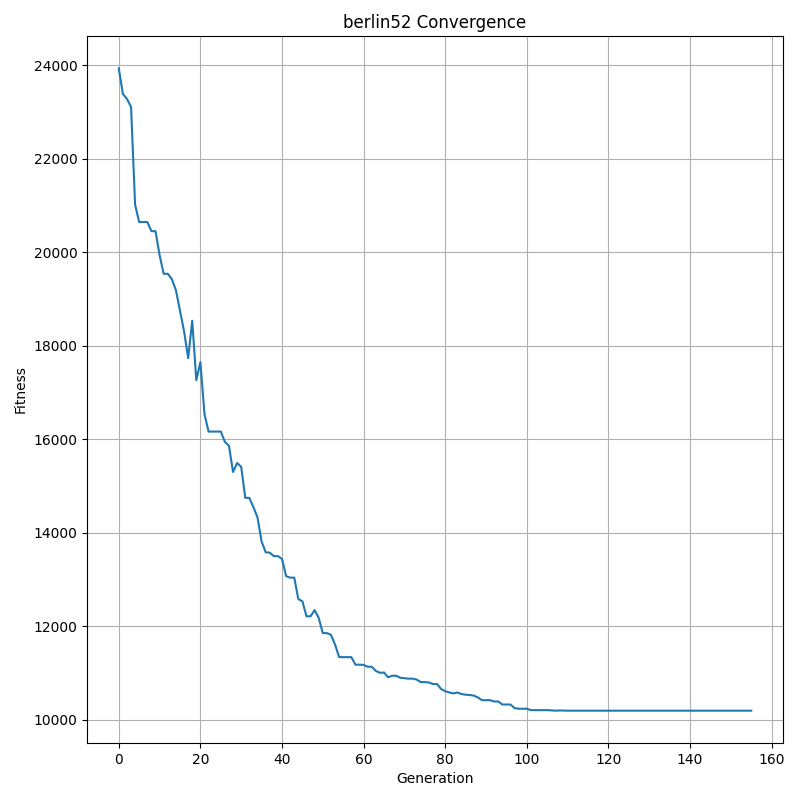
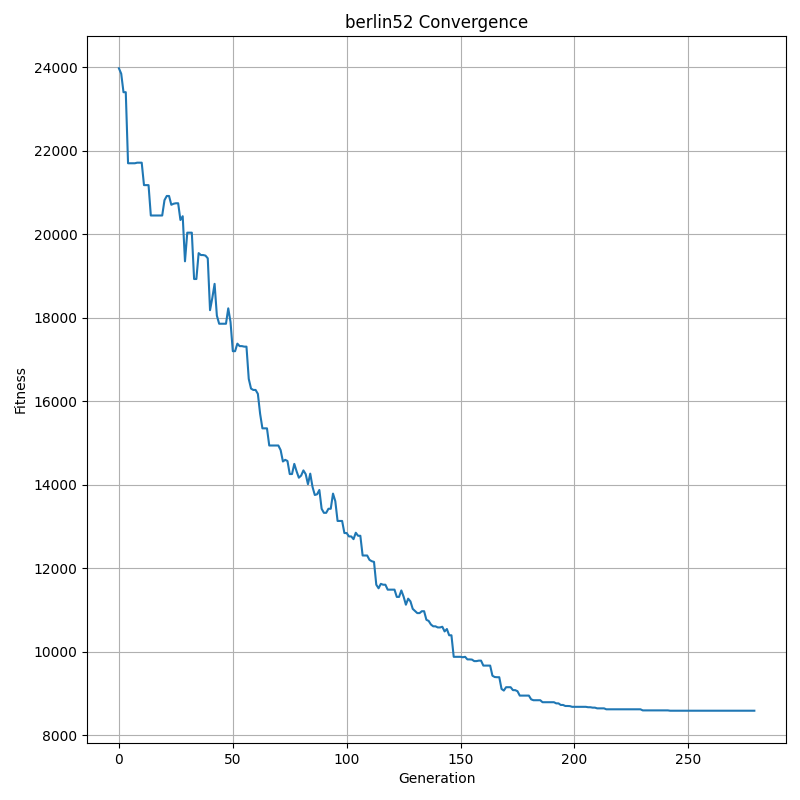
experiment 2: 12, 2103, 8584, 911, 2046

diff --git a/src/travel_graph_classic.py b/src/travel_graph_classic.py
@@ -114,17 +114,20 @@ class TravelGraphClassic:
 
     def find_shortest_path(
         self,
-        population_size=500,  # 500
-        generations=500,  # 500
-        elitism_factor=0.15,  # 0.15
-        diversity_factor=0.15,  # 0.15
-        linear_selection_factor=0.5,  # 0.5
-        crossover_factor=10/131,  # 10/131
-        p_mutation=0.01,  # 0.01
-        mutate_elite=True,  # True
-        patience=50,  # 50
-        patience_factor=0.001,  # 0.001
-        verbose=2,  # 2
+        population_size=1000,           # 1000
+        generations=500,                # 500
+        elitism_factor=0.15,            # 0.15
+        elitism_factor_change=None,     # None
+        diversity_factor=0.15,          # 0.15
+        diversity_factor_change=None,   # None
+        crossover_factor=0.1,           # 0.1
+        crossover_factor_change=None,   # None
+        p_mutation=0.01,                # 0.01
+        p_mutation_change=None,         # None
+        mutate_elite=True,              # True
+        patience=50,                    # 50
+        patience_factor=0.001,          # 0.001
+        verbose=2,                      # 2
     ):
         i_generation = 1
         population = []
@@ -146,7 +149,13 @@ class TravelGraphClassic:
         # 6) Evolution
         while i_generation <= generations:
             if verbose >= 1:
-                print(f"Generation {i_generation}")
+                params_dict = {
+                    "elitism_factor": round(elitism_factor,4),
+                    "diversity_factor": round(diversity_factor,4),
+                    "crossover_factor": round(crossover_factor,4),
+                    "p_mutation": round(p_mutation,4),
+                }
+                print(f"Generation {i_generation} ({params_dict})")
 
             new_population = []
 
@@ -166,10 +175,7 @@ class TravelGraphClassic:
             elite_and_diversity_count = len(new_population)
 
             # 3) Crossovers
-            linear_selection_factor
             while len(new_population) < population_size:
-                # p1 = population[TravelGraphClassic.rand_num(0, int(linear_selection_factor*len(population)))]
-                # p2 = population[TravelGraphClassic.rand_num(0, int(linear_selection_factor*len(population)))]
                 p1 = population[TravelGraphClassic.rand_num(
                     0, elite_and_diversity_count)]
                 p2 = population[TravelGraphClassic.rand_num(
@@ -207,6 +213,14 @@ class TravelGraphClassic:
             self.current_fitness = sorted_population[0].fitness
             population = new_population
             i_generation += 1
+            if elitism_factor_change is not None:
+                elitism_factor += elitism_factor_change
+            if diversity_factor_change is not None:
+                diversity_factor += diversity_factor_change
+            if crossover_factor_change is not None:
+                crossover_factor += crossover_factor_change
+            if p_mutation_change is not None:
+                p_mutation += p_mutation_change
 
             if len(self.convergence_array)-patience > 0:
                 recent_convergences = self.convergence_array[len(

diff --git a/src/driver.py b/src/driver.py
@@ -11,13 +11,16 @@ def run_all_problems():
         run_genetic_experiment(             # Default values
             problem_name,                   
             travel_graph_class=TravelGraphClassic,
-            population_size=1000,            # 500
-            generations=1000,                # 500
+            population_size=1000,           # 1000
+            generations=1000,               # 500
             elitism_factor=0.15,            # 0.15
+            elite_factor_change=None,       # None
             diversity_factor=0.15,          # 0.15
-            linear_selection_factor=0.5,    # 0.5
-            crossover_factor=0.1,        # 10/131
+            diversity_factor_change=None,   # None
+            crossover_factor=0.1,           # 0.1
+            crossover_factor_change=None,   # None
             p_mutation=0.01,                # 0.01
+            p_mutation_change=None,         # None
             mutate_elite=True,              # True
             patience=50,                    # 50
             patience_factor=0.001,          # 0.001
@@ -43,13 +46,16 @@ def main():
     run_genetic_experiment(             # Default values
         problem_name,                   
         travel_graph_class=TravelGraphClassic,
-        population_size=1000,            # 500
-        generations=1000,                # 500
-        elitism_factor=0.15,            # 0.15
-        diversity_factor=0.3,          # 0.15
-        linear_selection_factor=0.5,    # 0.5
-        crossover_factor=0.1,        # 10/131
+        population_size=1000,           # 1000
+        generations=500,               # 500
+        elitism_factor=0.2,             # 0.15
+        elitism_factor_change=None,       # None
+        diversity_factor=0.3,           # 0.15
+        diversity_factor_change=-0.07/100,   # None
+        crossover_factor=0.2,           # 0.1
+        crossover_factor_change=-0.07/100, # None
         p_mutation=0.01,                # 0.01
+        p_mutation_change=None,         # None
         mutate_elite=True,              # True
         patience=50,                    # 50
         patience_factor=0.001,          # 0.001

diff --git a/src/genetic_experiment_conductor.py b/src/genetic_experiment_conductor.py
@@ -51,17 +51,6 @@ def run_genetic_experiment(problem_name, travel_graph_class=TravelGraphClassic, 
     start_time = time.perf_counter()
     try:
         travel_graph.find_shortest_path(
-            # population_size=500,  # 500
-            # generations=500,  # 500
-            # elitism_factor=0.15,  # 0.15
-            # diversity_factor=0.15,  # 0.15
-            # linear_selection_factor=0.5,  # 0.5
-            # crossover_factor=10/131,  # 10/131
-            # p_mutation=0.01,  # 0.01
-            # mutate_elite=True,  # True
-            # patience=50,  # 50
-            # patience_factor=0.001,  # 0.001
-            # verbose=verbose,  # 2
             **kwargs_find_shortest_path
         )
     except KeyboardInterrupt:
